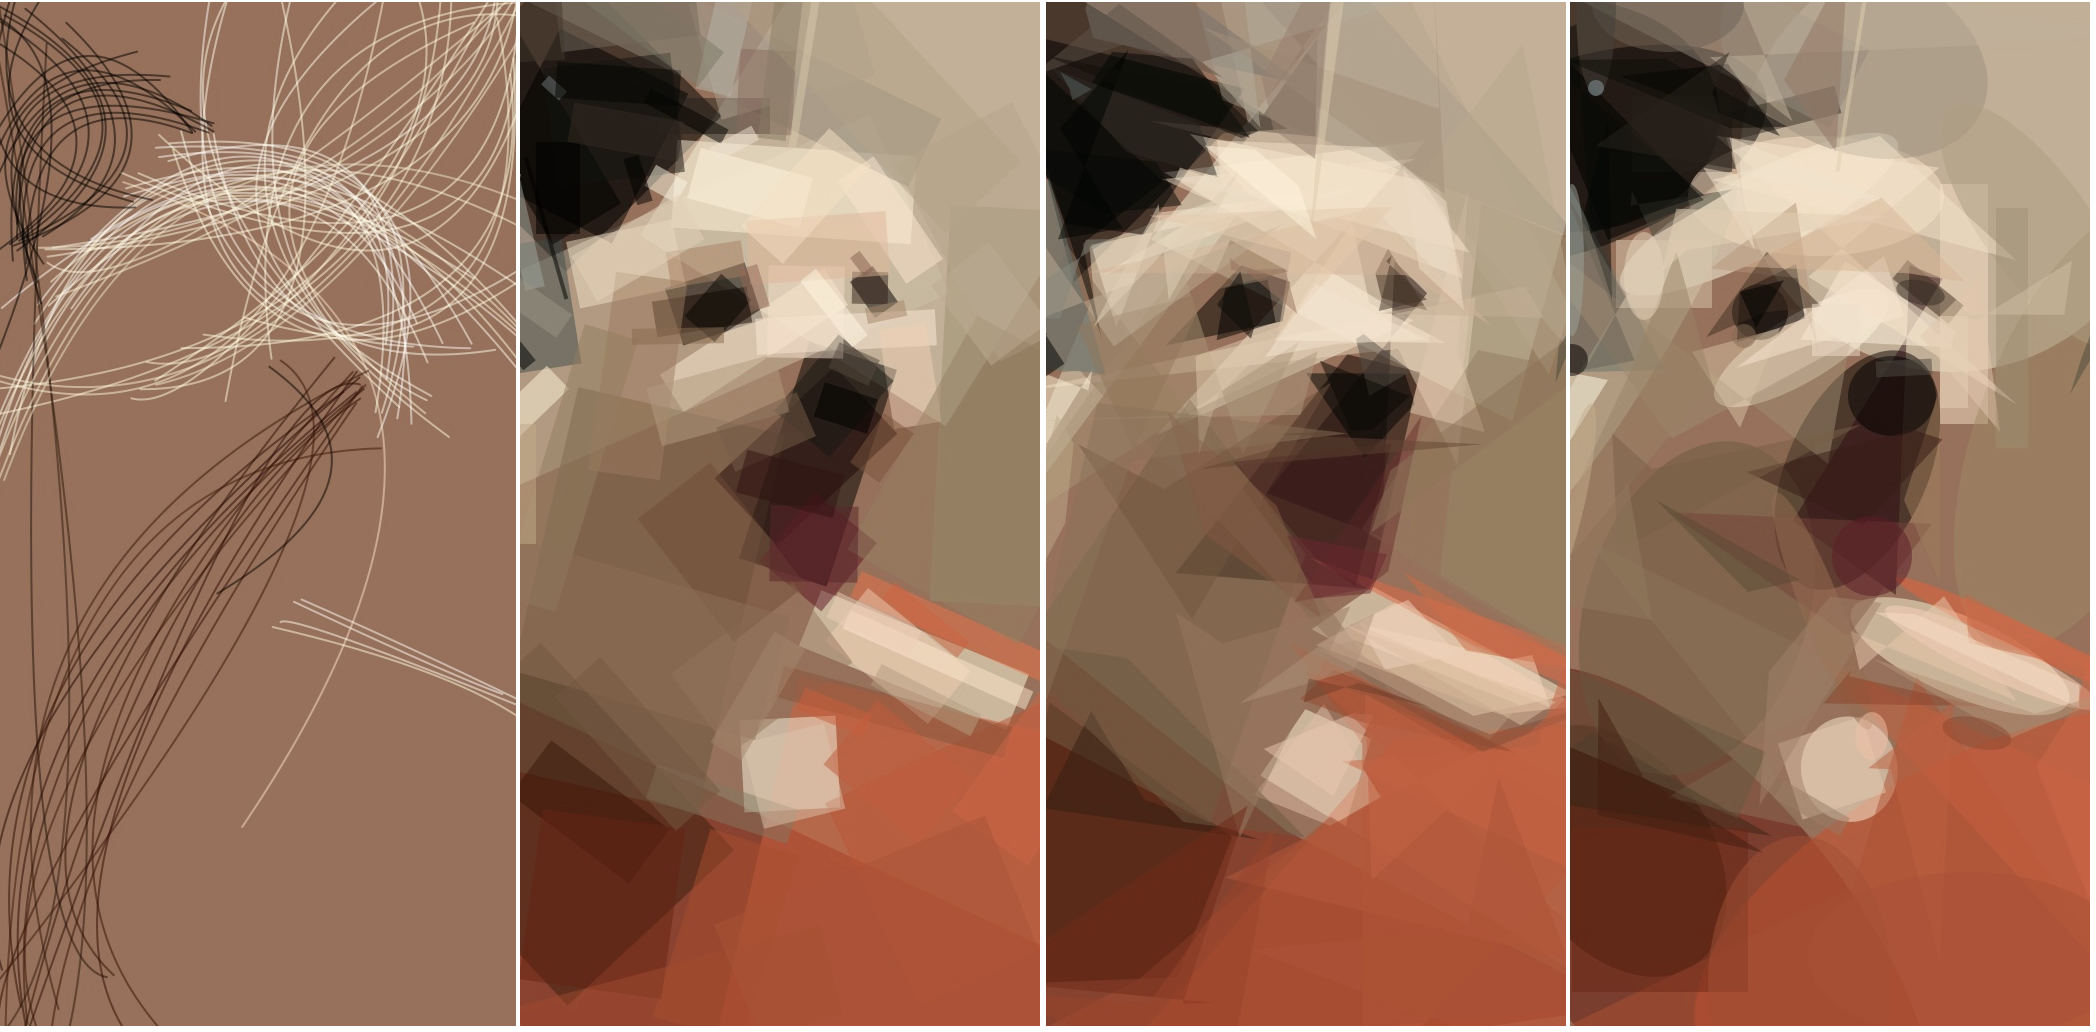
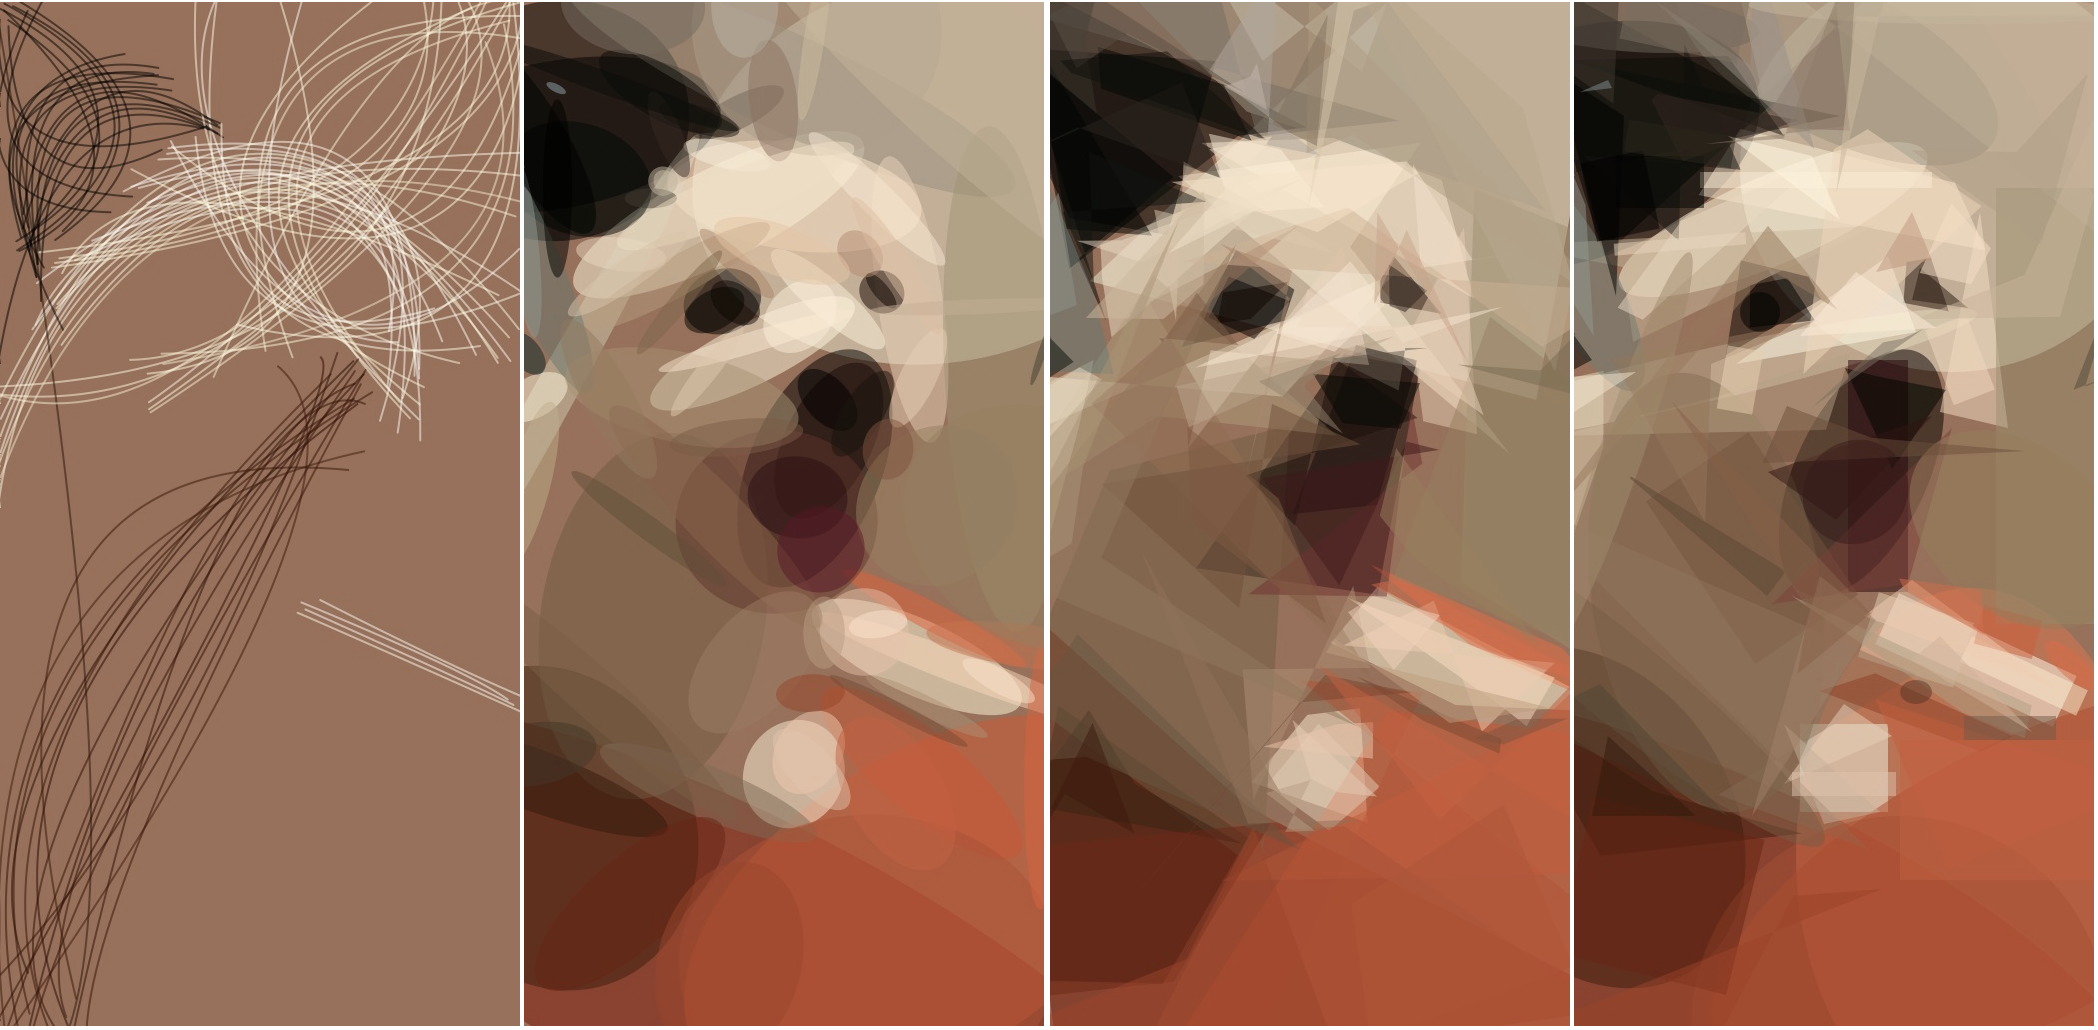
final

diff --git a/main.go b/main.go
@@ -74,7 +74,7 @@ func main() {
 			return
 		}
 		file.Seek(0, 0)
-		g, err := generateImage(file, ext, 100, primitive.ModeRotatedRect)
+		g, err := generateImage(file, ext, 100, primitive.ModeRotatedEllipse)
 		if err != nil {
 			http.Error(w, err.Error(), http.StatusInternalServerError)
 			return
